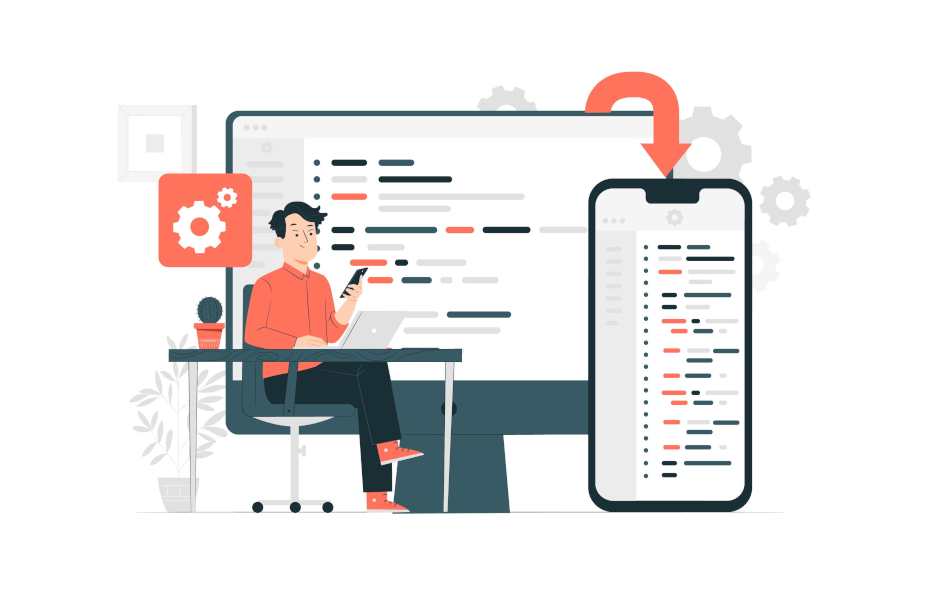
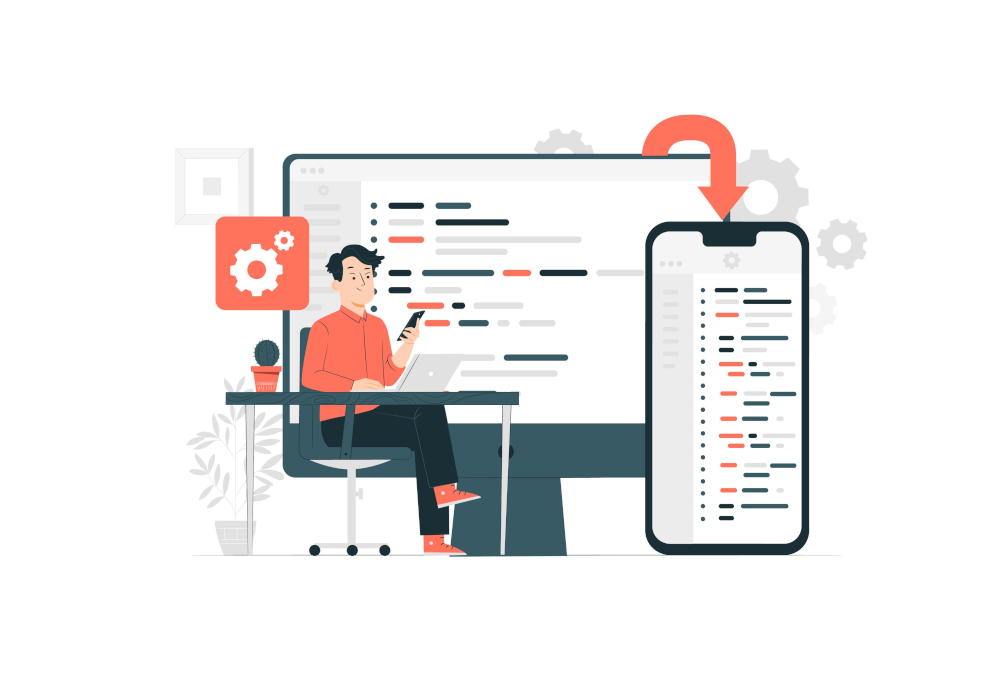
updates

Changed region(s): [[0.1242, 0.119, 0.8694, 0.8628]]

diff --git a/exampleSite/content/_index.md b/exampleSite/content/_index.md
@@ -3,7 +3,7 @@ title: 'Homepage'
 meta_title: 'jaffamonkey'
 description: "Serif is a modern business theme for Hugo."
 intro_image: "images/illustrations/home.png"
-intro_image_absolute: false # makes the image use css position: absolute; so it looks "offset". It's a visual effect that might not always look good depending on the image you use.
+intro_image_absolute: true # makes the image use css position: absolute; so it looks "offset". It's a visual effect that might not always look good depending on the image you use.
 intro_image_absolute_offset: "auto auto -100px -80px" # used to tweak the positioning of the absolute image if enabled above
 intro_image_hide_on_mobile: true
 ---
